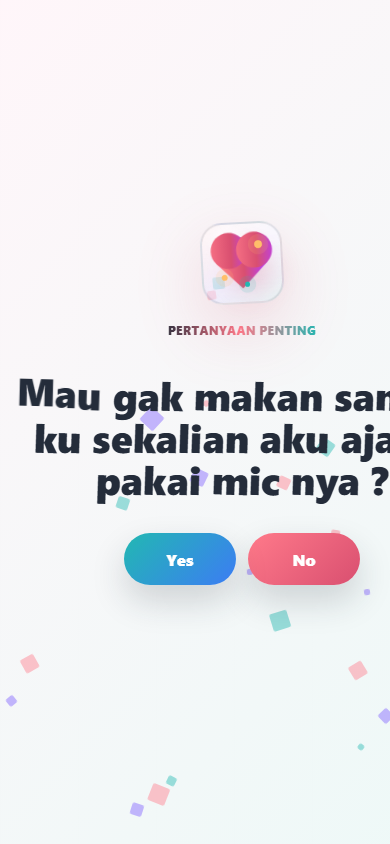
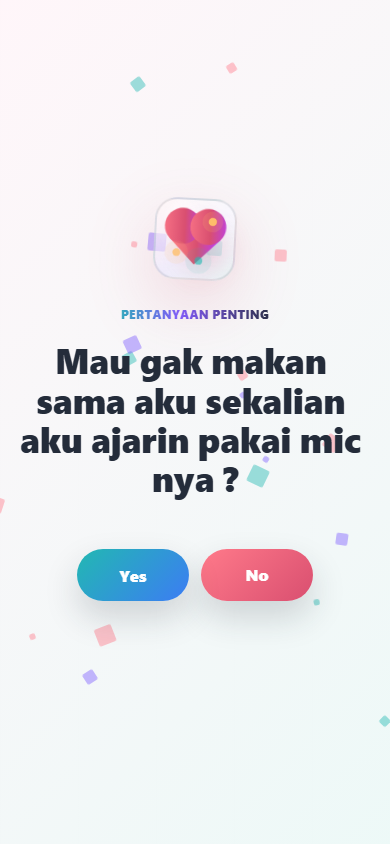
first commit

diff --git a/src/App.css b/src/App.css
@@ -56,7 +56,7 @@
 
 .invite-content,
 .destination-content {
-  width: min(760px, 100%);
+  width: min(760px, calc(100vw - 64px));
   position: relative;
   z-index: 1;
   display: grid;
@@ -173,13 +173,17 @@
   width: 100%;
   justify-content: center;
   flex-wrap: wrap;
-  gap: 0.13em;
+  gap: 0;
 }
 
 .split-word {
   display: inline-flex;
   flex: 0 0 auto;
   white-space: nowrap;
+}
+
+.split-word:not(:last-child) {
+  margin-right: 0.13em;
 }
 
 .split-char {
@@ -332,6 +336,7 @@
 
   .invite-content,
   .destination-content {
+    width: calc(100vw - 32px);
     gap: 18px;
     min-height: calc(100svh - 48px);
     align-content: center;
@@ -360,7 +365,7 @@
   .headline,
   .destination-content .headline {
     font-size: clamp(1.72rem, 9vw, 2.45rem);
-    line-height: 1.08;
+    line-height: 1.12;
   }
 
   .split-text {
@@ -370,12 +375,12 @@
   }
 
   .split-word {
-    display: inline;
-    white-space: normal;
+    display: inline-block;
+    white-space: nowrap;
   }
 
-  .split-word::after {
-    content: ' ';
+  .split-word:not(:last-child) {
+    margin-right: 0.24em;
   }
 
   .eyebrow {